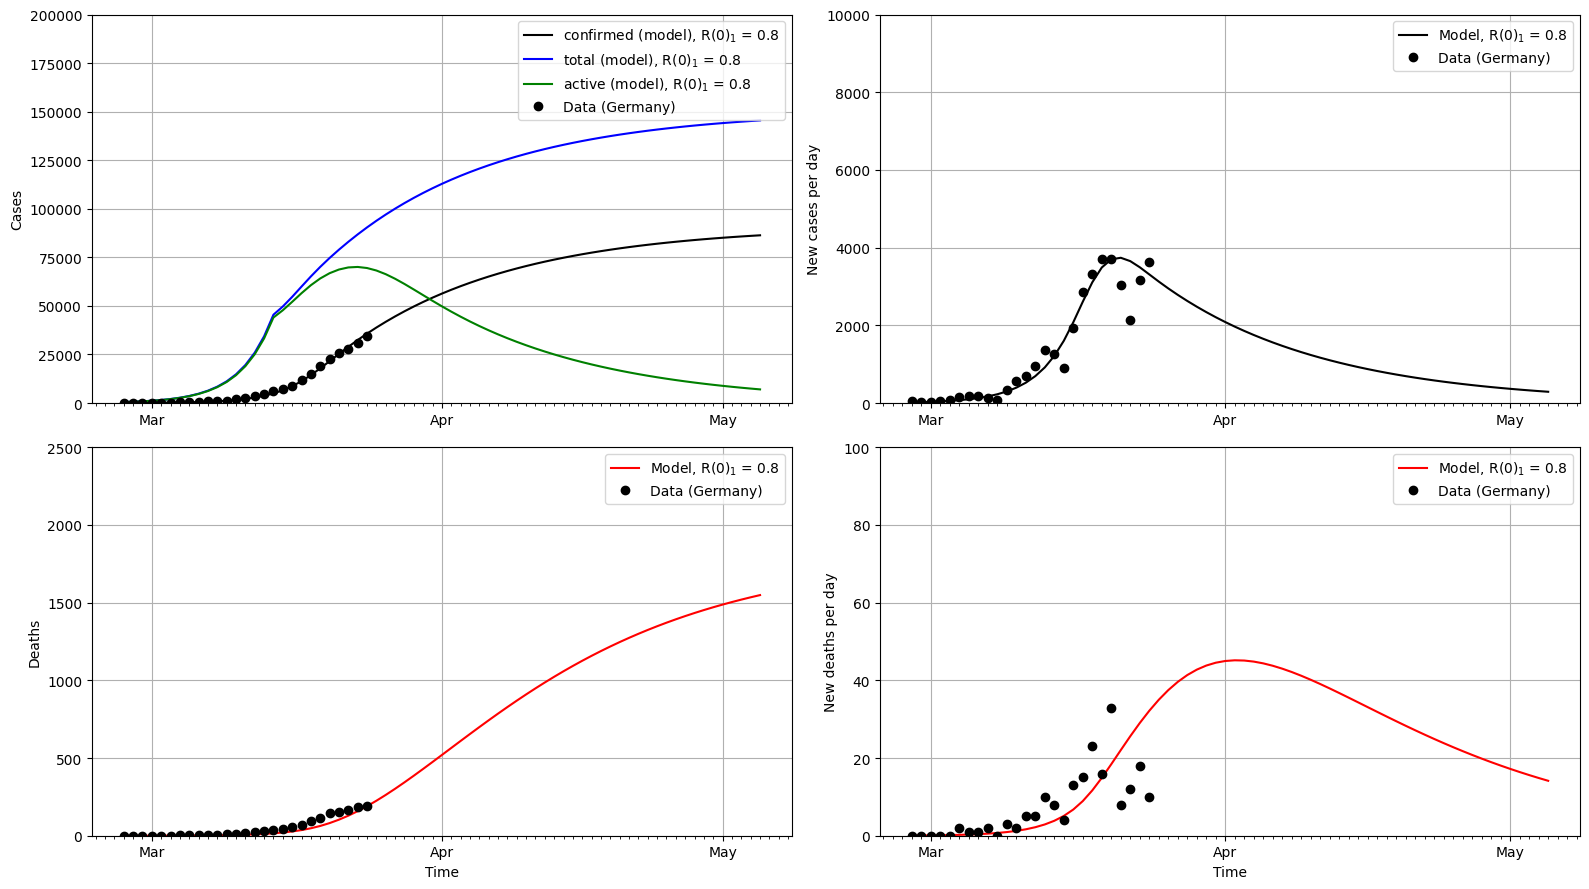
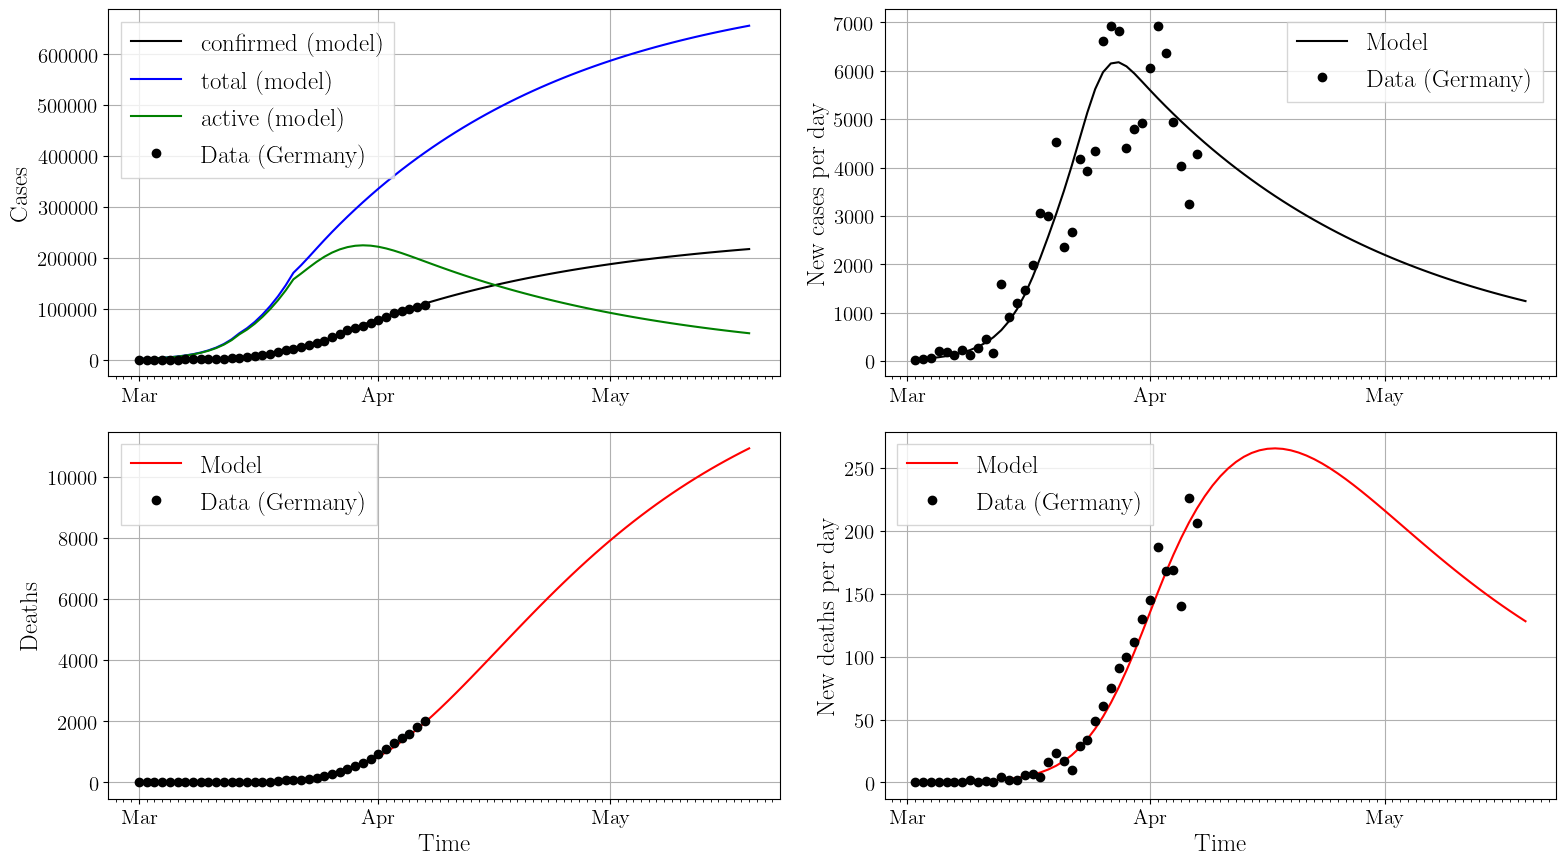
Update Plot in README

diff --git a/plotting.py b/plotting.py
@@ -72,7 +72,7 @@ def fit_quality(days, confirmed_data, confirmed, dead_data, dead):
     return fig, axs
 
 
-def plot_model(days_data, confirmed_data, confirmed, dead_data, dead, cases=None, active=None):
+def plot_model(days_data, confirmed_data, confirmed, dead_data, dead, cases=None, active=None, cut_data=False):
 
     fig, axs = plt.subplots(2, 2)
     fig.set_figheight(9)
@@ -93,7 +93,8 @@ def plot_model(days_data, confirmed_data, confirmed, dead_data, dead, cases=None
     axs[0, 0].xaxis.set_major_formatter(dates.DateFormatter('%b'))
     axs[0, 0].plot_date(days_data, confirmed_data, marker='o', color='k', label='Data (Germany)')
     axs[0, 0].set_ylabel("Cases")
-    axs[0, 0].set_ylim(0, 1.5*np.max(confirmed_data))
+    if cut_data:
+        axs[0, 0].set_ylim(0, 1.5*np.max(confirmed_data))
     axs[0, 0].legend()
     axs[0, 0].grid(True)
 
@@ -102,7 +103,8 @@ def plot_model(days_data, confirmed_data, confirmed, dead_data, dead, cases=None
     axs[0, 1].xaxis.set_major_formatter(dates.DateFormatter('%b'))
     axs[0, 1].plot_date(days_data[1:], np.diff(confirmed_data), marker='o', color='k', label='Data (Germany)')
     axs[0, 1].set_ylabel("New cases per day")
-    axs[0, 1].set_ylim(0, 1.5*np.max(np.diff(confirmed_data)))
+    if cut_data:
+        axs[0, 1].set_ylim(0, 1.5*np.max(np.diff(confirmed_data)))
     axs[0, 1].legend()
     axs[0, 1].grid(True)
 
@@ -112,7 +114,8 @@ def plot_model(days_data, confirmed_data, confirmed, dead_data, dead, cases=None
     axs[1, 0].plot_date(days_data, dead_data, marker='o', color='k', label='Data (Germany)')
     axs[1, 0].set_xlabel("Time")
     axs[1, 0].set_ylabel("Deaths")
-    axs[1, 0].set_ylim(0, 1.5*np.max(dead_data))
+    if cut_data:
+        axs[1, 0].set_ylim(0, 1.5*np.max(dead_data))
     axs[1, 0].legend()
     axs[1, 0].grid(True)
 
@@ -123,7 +126,8 @@ def plot_model(days_data, confirmed_data, confirmed, dead_data, dead, cases=None
     axs[1, 1].legend()
     axs[1, 1].set_xlabel("Time")
     axs[1, 1].set_ylabel("New deaths per day")
-    axs[1, 1].set_ylim(0, 1.5*np.max(np.diff(dead_data)))
+    if cut_data:
+        axs[1, 1].set_ylim(0, 1.5*np.max(np.diff(dead_data)))
     axs[1, 1].legend()
     axs[1, 1].grid(True)
 

diff --git a/train_model.py b/train_model.py
@@ -58,7 +58,6 @@ def run_model(pars, n_sim):
                               t_death=pars.get('t-death', defaults['t-death']),
                               t_confirmed=pars.get('t-confirmed', defaults['t-confirmed']),
                               infected_start=pars.get('infected-start', defaults['infected-start']),
-                              contagious_start=pars.get('contagious-start', defaults['contagious-start']),
                               confirmed_start=pars.get('confirmed-start', defaults['confirmed-start']))
 
     if ('R0-1' in pars):

diff --git a/fit_data.py b/fit_data.py
@@ -86,7 +86,7 @@ plt.close("all")
 pred_len = 42 if (('R0-1' in scan_pars) or ('R0-lo-A' in scan_pars)) else 3
 cases, confirmed, dead, active = run_model(pars_opt, days.size + pred_len)
 
-fig, axs = plot_model(days_data, confirmed_data, confirmed, dead_data, dead, cases=cases, active=active)
+fig, axs = plot_model(days_data, confirmed_data, confirmed, dead_data, dead, cases=cases, active=active, cut_data=False)
 plt.tight_layout()
 plt.savefig('img/predict_model_%s.png' % identifier, bbox_inches='tight')
 plt.close()

diff --git a/parameters.py b/parameters.py
@@ -35,7 +35,7 @@ defaults = {
     'attack-rate': 0.15,
     'R0-0': 2.6,
     'detection-rate': 0.33,
-    'lethality': 0.015,
+    'lethality': 0.02,
     'burn-in': 13,
     'day-action-1': 17,
     'day-action-2': 24,
